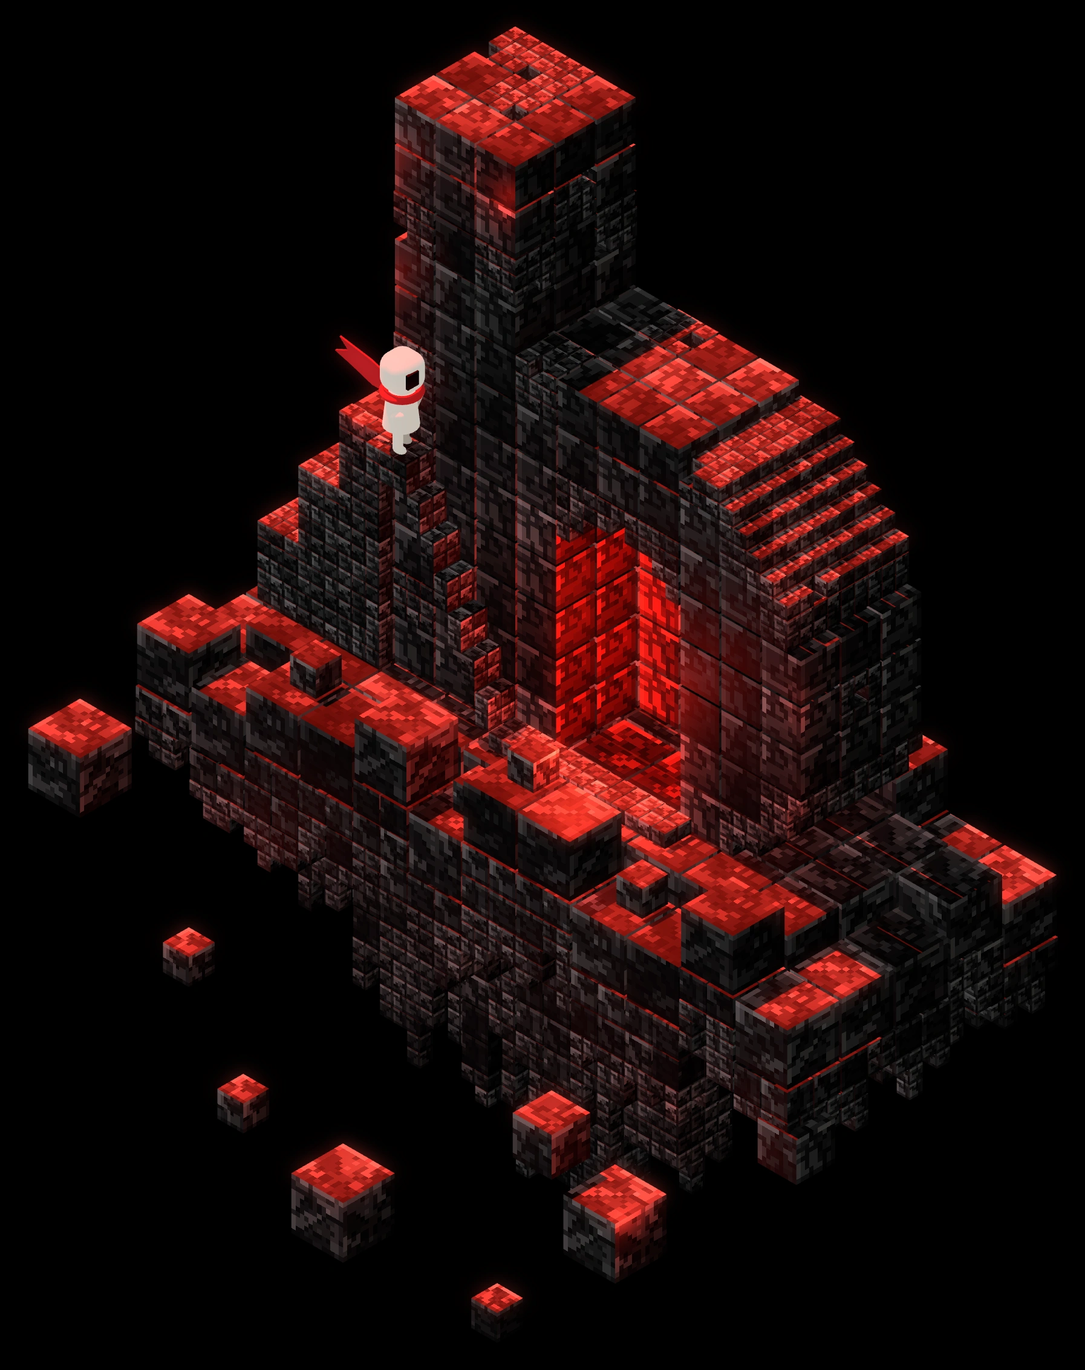
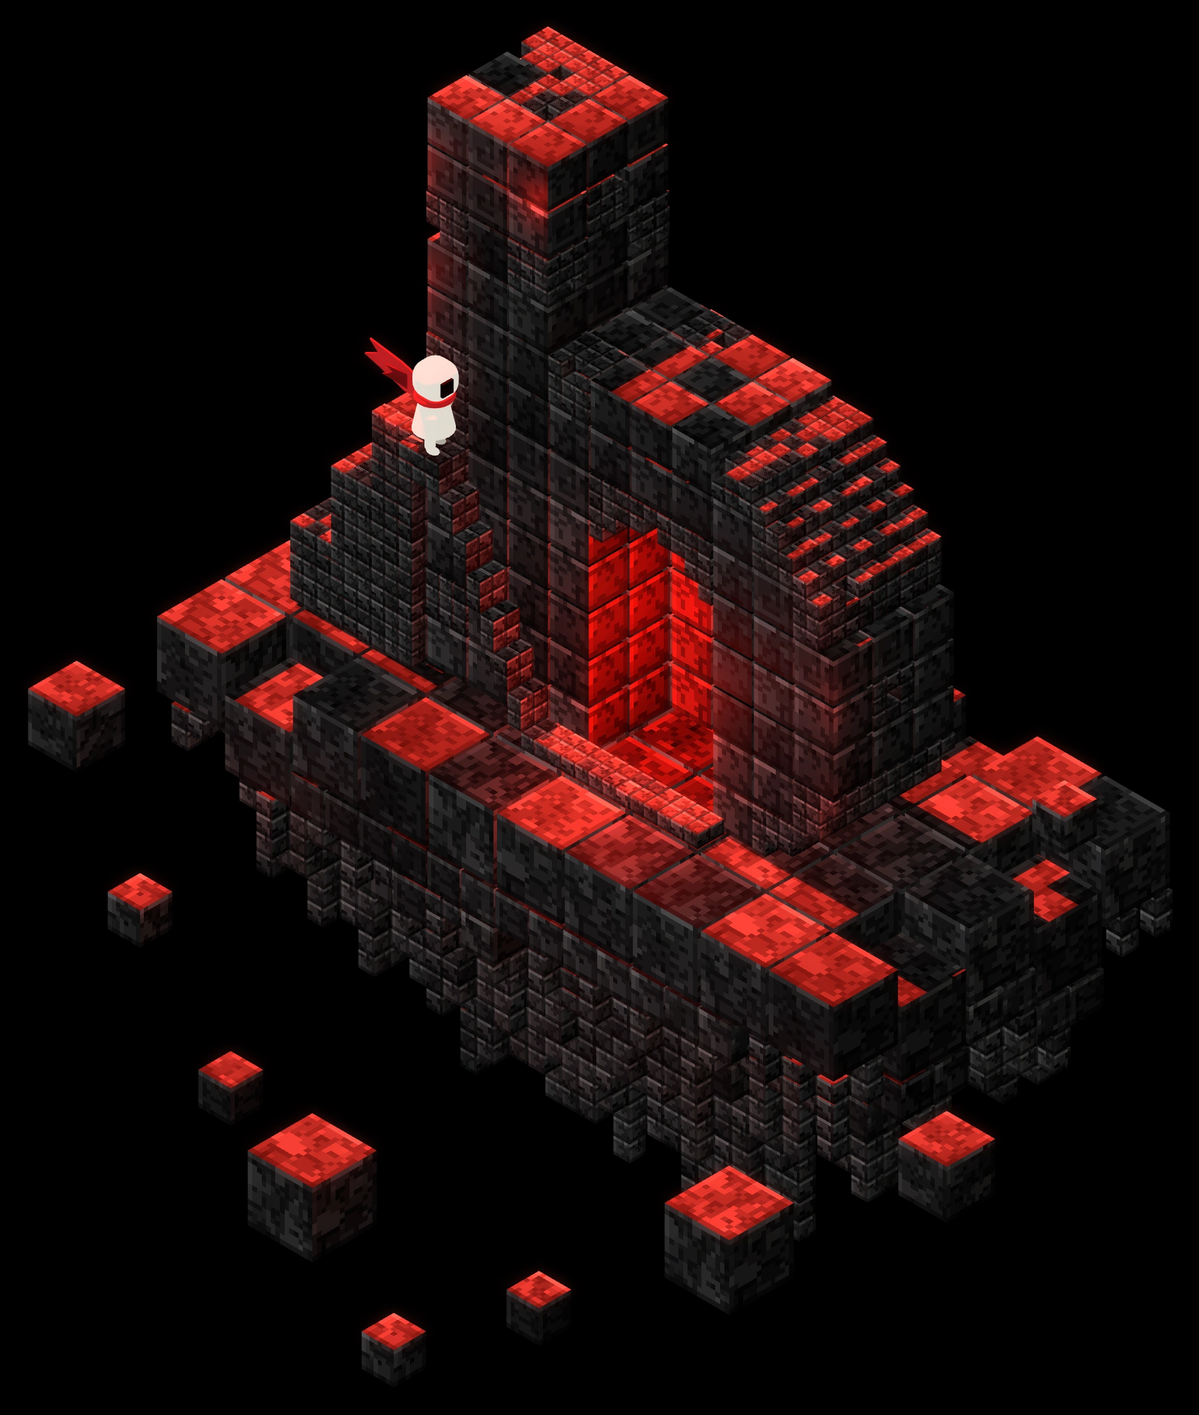
Sculpture: bowl-shaped island, regular rim cubes, near-black cubes via shadow plates, new explorer
- foundation rebuilt: 15-unit top cubes on a regular grid, 7.5 and 3.75-unit tiers
  stepping down a smooth bowl depth profile with serrated teeth; shallower so the b leads
- some cubes are near-black (they sit in the red key's shadow via invisible shadow
  plates) so the tops alternate red / black like the reference
- chibi explorer, calmer red glow and point lights, smoother stone texture

Claude-Session: https://claude.ai/code/session_01QzWKhTYrrY3Jd26DSiS11Q

diff --git a/tools/sculpture3d.js b/tools/sculpture3d.js
@@ -45,12 +45,9 @@ const JF = BODY_Y1 / G;                            // cells in the depth of the 
 const STEM = { x0: 24, x1: 51, h: 108 };
 const BOWL = { x0: 42, x1: 114, h: 72, rTop: 36, rBot: 24 };
 const LANDING_Z = 45;
-const PLAT = { x0: -12, x1: 132, y0: -12, y1: 48 };
-const PLAT_CX = (PLAT.x0 + PLAT.x1) / 2, PLAT_CY = (PLAT.y0 + PLAT.y1) / 2;
-const PLAT_AX = (PLAT.x1 - PLAT.x0) / 2, PLAT_AY = (PLAT.y1 - PLAT.y0) / 2;
-const RIM_M = 0.74;
-const CELL = 12;                                   // foundation top cube
-
+const CELL = 15;                                   // foundation top cube; tiers below are CELL/2 and CELL/4
+const PLAT = { x0: -15, x1: 135, y0: -27, y1: 48 };   // cell boundaries line up with the letter (x) and the stairs' front edge (y = 33)
+const PLAT_CX = 60, PLAT_CY = 10.5, PLAT_AX = 75, PLAT_AY = 37.5;
 const inCircle = (x, z, cx, cz, r) => (x - cx) ** 2 + (z - cz) ** 2 <= r * r;
 function inLetter(X, Z) {
   if (X >= STEM.x0 && X < STEM.x1 && Z >= 0 && Z < STEM.h) return true;
@@ -68,12 +65,6 @@ function inDoorOpening(X, Z) {
   if (Z < DOOR.zRect) return true;
   return inCircle(X, Z, DOOR.cx, DOOR.zRect, DOOR.r);
 }
-function platM(x, y) {
-  const u = Math.abs(x - PLAT_CX) / PLAT_AX, v = Math.abs(y - PLAT_CY) / PLAT_AY;
-  return Math.pow(u ** 7 + v ** 7, 1 / 7);
-}
-const inFootprint = (x, y) => x > -4 && x < 120 && y > -4 && y < 36;   // cells under the letter, stairs and doorstep stay flat
-
 /* ---------- blocks ---------- */
 // block: { X, Y, Z (centre, scene units), s (size), f: [6 face tokens], t (brightness tint) }
 // face order matches BoxGeometry: +x, -x, +y(up), -y, +z(front, scene +Y), -z
@@ -145,7 +136,7 @@ function emitLetter() {
     for (let a = -1; a <= n; a++) for (let b = -1; b <= n; b++) for (let c = -1; c <= n; c++) if (has(i + a, j + b, k + c) && (a < 0 || b < 0 || c < 0 || a >= n || b >= n || c >= n)) occ++;
     const faceCells = 6 * n * n + 12 * n + 8;
     const ao = 1 - Math.max(0, occ / faceCells - 0.5);
-    blocks.push({ X, Y, Z, s, f, t: (0.16 + 1.0 * Math.pow(hash3(i, j, k, 300), 1.2)) * Math.max(0.4, ao) });
+    blocks.push({ X, Y, Z, s, f, t: (hash3(i, j, k, 303) < 0.3 ? 0.04 : 0.45 + 0.8 * hash3(i, j, k, 300)) * Math.max(0.4, ao) });
   };
   const M = 3;                                 // merge aligned 3x3x3 cell groups into 9-unit cubes
   for (const [key] of grid) {
@@ -168,74 +159,83 @@ function emitLetter() {
   }
 }
 
-/* ----- floating foundation: 12-unit rim cubes, then 6- and 3-unit cubes tapering to points ----- */
+/* ----- floating foundation: a bowl of cubes. Top layer 15-unit cubes in a regular grid; below them
+ *       7.5- and 3.75-unit cubes step down along a smooth bowl profile ----- */
+function bowlDepth(x, y) {
+  const u = (x - PLAT_CX) / PLAT_AX, v = (y - PLAT_CY) / PLAT_AY;
+  const r = Math.min(1, Math.pow(u ** 4 + v ** 4, 0.25));          // rounded-rectangle distance from the centre
+  return 17 + 52 * Math.pow(1 - r * r, 0.85);                         // rim ~17 deep, centre ~70: a bowl
+}
 const tierFaces = (h) => {
   const f = baseFaces();
   f[0] = cv(h, 0, 1, 1); f[4] = cv(h, 1, 1, 2); f[2] = cv(h, 2, 1, 3);
   return f;
 };
 const shadeDepth = (Z) => 1 - 0.35 * Math.min(1, Math.max(0, -Z / 70));
+const darkCube = (a, b, c) => hash3(a, b, c, 302) < 0.34;                  // some cubes are near-black stone, so tops alternate red / black
+const tintOf = (a, b, c, Z) => (darkCube(a, b, c) ? 0.03 : 0.45 + 0.8 * hash3(a, b, c, 301)) * shadeDepth(Z);
 function emitPlatform() {
-  for (let ci = Math.floor(PLAT.x0 / CELL); ci < Math.ceil(PLAT.x1 / CELL); ci++) {
-    for (let cj = Math.floor(PLAT.y0 / CELL); cj < Math.ceil(PLAT.y1 / CELL); cj++) {
-      const x = (ci + 0.5) * CELL, y = (cj + 0.5) * CELL;
-      const m = platM(x, y);
-      if (m + (vnoise(x, y, 0, 24, 1) - 0.5) * 0.16 > 1) continue;
-      const r = hash3(ci, cj, 0, 2), core = 1 - m;
-      const onRim = m > RIM_M && !inFootprint(x, y);
+  const ci0 = Math.round(PLAT.x0 / CELL), ci1 = Math.round(PLAT.x1 / CELL) - 1;
+  const cj0 = Math.floor((PLAT.y0 - 3) / CELL) + 1, cj1 = cj0 + Math.round((PLAT.y1 - PLAT.y0) / CELL) - 1;
+  for (let ci = ci0; ci <= ci1; ci++) {
+    for (let cj = cj0; cj <= cj1; cj++) {
+      const x = ci * CELL + CELL / 2, y = 3 + (cj - 1) * CELL + CELL / 2 + CELL * 0;   // front row starts at y = 33
+      const r = hash3(ci, cj, 0, 2);
+      const border = ci === ci0 || ci === ci1 || cj === cj0 || cj === cj1;
+      const flat = y > 0 && y < 33 && x > -10 && x < 125;                    // under the letter, the stairs and the doorstep
       let top = 0;
-      if (onRim) top = r < 0.34 ? -6 : (r > 0.62 && x > 30 ? 6 : 0);                 // rim cubes stand at different heights
-      const H = 24 + 72 * Math.pow(core, 1.3) * (0.7 + 0.5 * r);                      // total hang (inverted pyramid)
-      let rem = H - CELL;
-      const extra = Math.floor(rem * 0.3 / CELL);
-      const n12 = 1 + extra;
-      rem -= extra * CELL;
-      for (let q = 0; q < n12; q++) {
-        if (q > 0 && hash3(ci, cj, q, 235) < 0.1) continue;
+      if (border && !flat) top = r < 0.2 ? -CELL / 2 : r > 0.8 ? CELL / 2 : 0; // a few rim cubes stand higher or lower
+      const jit = 0.86 + 0.28 * hash3(ci, cj, 1, 4);
+      const D = bowlDepth(x, y) * jit;
+      const n1 = 1 + Math.floor(Math.max(0, D - CELL) / 38);
+      // tier 1: 15-cubes
+      for (let q = 0; q < n1; q++) {
         const Z = top - CELL / 2 - q * CELL;
         const f = tierFaces(ci * 31 + cj * 7 + q);
-        if (q === 0 && x > DOOR.x0 && x < DOOR.x1 && y > DOOR.recessY && y < BODY_Y1) f[2] = 'd0';   // door floor glows
-        blocks.push({ X: x, Y: y, Z, s: CELL, f, t: (0.16 + 1.0 * Math.pow(hash3(ci, cj, q, 301), 1.2)) * shadeDepth(Z) });
+        if (q === 0 && x > DOOR.x0 && x < DOOR.x1 && y > 0 && y < 30) f[2] = 'd0';   // door floor glows
+        blocks.push({ X: x, Y: y, Z, s: CELL, f, t: tintOf(ci, cj, q, Z) });
       }
-      const z12 = top - n12 * CELL;
-      if (rem < 3) continue;
+      const z1 = top - n1 * CELL;
+      // tier 2: 7.5-cubes in a 2x2 pattern, depth read from the bowl profile at each sub-column
+      const h2 = CELL / 2, q4 = CELL / 4;
       for (let a = 0; a < 2; a++) for (let b = 0; b < 2; b++) {
-        const X6 = x - 3 + a * 6, Y6 = y - 3 + b * 6, h6 = ci * 977 + cj * 131 + a * 17 + b * 5;
-        const len6 = Math.floor(rem * 0.62 / 6 * (0.5 + 0.9 * hash3(h6, 0, 0, 240)));
-        for (let q = 0; q < len6; q++) {
-          const Z = z12 - 3 - q * 6;
-          blocks.push({ X: X6, Y: Y6, Z, s: 6, f: tierFaces(h6 * 7 + q), t: (0.16 + 1.0 * Math.pow(hash3(h6, q, 0, 302), 1.2)) * shadeDepth(Z) });
+        const xs = x - q4 + a * h2, ys = y - q4 + b * h2, hh = ci * 977 + cj * 131 + a * 17 + b * 5;
+        const D2 = bowlDepth(xs, ys) * (0.72 + 0.5 * hash3(hh, 0, 0, 240)) - n1 * CELL;
+        const len2 = Math.max(0, Math.round(0.62 * D2 / h2));
+        for (let q = 0; q < len2; q++) {
+          const Z = z1 - h2 / 2 - q * h2;
+          blocks.push({ X: xs, Y: ys, Z, s: h2, f: tierFaces(hh * 7 + q), t: tintOf(hh, q, 2, Z) });
         }
-        const z6 = z12 - len6 * 6, rem2 = rem - len6 * 6;
+        // tier 3: 3.75-cubes under each, again 2x2
+        const z2 = z1 - len2 * h2;
         for (let c = 0; c < 2; c++) for (let d = 0; d < 2; d++) {
-          const h3 = h6 * 13 + c * 3 + d, len3 = Math.floor(Math.max(0, rem2) / 3 * (0.35 + 0.9 * hash3(h3, 0, 0, 241)));
+          const xt = xs - q4 / 2 + c * q4, yt = ys - q4 / 2 + d * q4, h3 = hh * 13 + c * 3 + d;
+          const D3 = bowlDepth(xt, yt) * (0.62 + 0.8 * hash3(h3, 0, 0, 241)) - n1 * CELL - len2 * h2;
+          const len3 = Math.min(5, Math.max(0, Math.round(1.0 * D3 / q4)));
           for (let q = 0; q < len3; q++) {
-            const Z = z6 - 1.5 - q * 3;
-            blocks.push({ X: X6 - 1.5 + c * 3, Y: Y6 - 1.5 + d * 3, Z, s: 3, f: tierFaces(h3 * 5 + q), t: (0.16 + 1.0 * Math.pow(hash3(h3, q, 0, 303), 1.2)) * shadeDepth(Z) });
+            const Z = z2 - q4 / 2 - q * q4;
+            blocks.push({ X: xt, Y: yt, Z, s: q4, f: tierFaces(h3 * 5 + q), t: tintOf(h3, q, 3, Z) });
           }
         }
       }
-      // a few lone raised cubes on the island top, clear of the letter
-      if (!inFootprint(x, y) && m < 0.9 && m > 0.45 && hash3(ci, cj, 0, 250) > 0.88) {
-        const sz = hash3(ci, cj, 1, 251) > 0.5 ? 6 : 3;
-        blocks.push({ X: x + 2, Y: y - 2, Z: top + sz / 2, s: sz, f: tierFaces(ci * 3 + cj), t: 0.9 });
-      }
     }
   }
+  // a lone cube sitting on the island, right-hand back corner
+  blocks.push({ X: 128, Y: -10, Z: 3.75, s: 7.5, f: tierFaces(77), t: 0.9 });
 }
 
 /* ----- loose floating cubes ----- */
 const LOOSE = [
   // x, y, z (centre), size
-  [-20, 52, -28, 12], [10, 58, -48, 6], [46, 60, -76, 12], [80, 60, -80, 6],
-  [104, 58, -52, 12], [130, 44, -30, 9], [26, 62, -66, 6], [92, 60, -40, 9]
+  [-30, 50, -26, 11.25], [-6, 60, -46, 7.5], [38, 66, -74, 15], [88, 66, -72, 7.5],
+  [122, 58, -46, 15], [150, 38, -28, 11.25], [64, 74, -88, 7.5], [20, 66, -64, 7.5]
 ];
 function emitLoose() {
   LOOSE.forEach(([X, Y, Z, s], n) => blocks.push({ X, Y, Z, s, f: tierFaces(900 + n), t: 0.85 }));
 }
 
 /* ---------- chunky chipped-stone pixel textures ---------- */
-function texelsFor(s) { return s <= 3 ? 6 : s <= 6 ? 8 : s <= 9 ? 9 : 12; }
+function texelsFor(s) { return s <= 4 ? 6 : s <= 8 ? 8 : s <= 10 ? 9 : s <= 12 ? 12 : 14; }
 const texCache = new Map();
 function makeTexture(kind, variant, n) {
   const key = kind + variant + '_' + n;
@@ -249,7 +249,7 @@ function makeTexture(kind, variant, n) {
   // Voronoi chips: each texel belongs to its nearest site; each site has its own brightness
   const sites = [];
   const count = Math.max(4, Math.round(n * n / 9));
-  for (let i = 0; i < count; i++) sites.push({ x: rnd(i, 0, 1) * n, y: rnd(i, 1, 2) * n, v: 0.38 + 0.8 * Math.pow(rnd(i, 2, 3), 1.3) });
+  for (let i = 0; i < count; i++) sites.push({ x: rnd(i, 0, 1) * n, y: rnd(i, 1, 2) * n, v: 0.55 + 0.5 * Math.pow(rnd(i, 2, 3), 1.2) });
   const owner = new Int16Array(n * n);
   for (let y = 0; y < n; y++) for (let x = 0; x < n; x++) {
     let best = 0, bd = 1e9;
@@ -261,15 +261,15 @@ function makeTexture(kind, variant, n) {
       const o = owner[y * n + x];
       let f = sites[o].v;
       const edge = (x > 0 && owner[y * n + x - 1] !== o) || (y > 0 && owner[(y - 1) * n + x] !== o);
-      if (edge && rnd(x, y, 4) < 0.7) f *= 0.45;                           // cracks between chips
-      if (rnd(x, y, 5) < 0.03) f *= 0.5;                                   // pits
-      if (rnd(x, y, 6) < 0.04) f *= 1.35;                                  // chalky flecks
+      if (edge && rnd(x, y, 4) < 0.55) f *= 0.62;                           // cracks between chips
+      if (rnd(x, y, 5) < 0.02) f *= 0.6;                                   // pits
+      if (rnd(x, y, 6) < 0.025) f *= 1.25;                                  // chalky flecks
       // bevel: lit top-left edges, shaded bottom-right
-      if (y === 0) f *= 1.9;
-      if (x === 0) f *= 1.35;
-      if (y === n - 1) f *= 0.55;
-      if (x === n - 1) f *= 0.65;
-      const v = Math.max(0, Math.min(255, 150 * f));
+      if (y === 0) f *= 1.7;
+      if (x === 0) f *= 1.25;
+      if (y === n - 1) f *= 0.6;
+      if (x === n - 1) f *= 0.7;
+      const v = Math.max(0, Math.min(255, 138 * f));
       const p = (y * n + x) * 4;
       img.data[p] = v; img.data[p + 1] = v * 0.985; img.data[p + 2] = v * 0.96; img.data[p + 3] = 255;
     }
@@ -315,6 +315,7 @@ for (const b of blocks) {
   groups.get(key).push(b);
 }
 const geoCache = new Map();
+const darkCubes = [];
 const col = new THREE.Color();
 const dummy = new THREE.Object3D();
 for (const [, list] of groups) {
@@ -326,39 +327,64 @@ for (const [, list] of groups) {
     dummy.position.set(b.X, b.Z, b.Y);
     dummy.updateMatrix();
     mesh.setMatrixAt(i, dummy.matrix);
-    col.setScalar(Math.min(1.3, b.t));
+    if (b.t < 0.1) {                                                        // near-black stone: sits in the red key's shadow (below), so its top shows the grey fill
+      col.setScalar(1.0);
+      darkCubes.push(b);
+    } else col.setScalar(Math.min(1.3, b.t));
     mesh.setColorAt(i, col);
   });
   mesh.castShadow = true; mesh.receiveShadow = true;
   scene.add(mesh);
 }
 
+/* invisible plates just above the near-black cubes: they cast a shadow from the key light only */
+{
+  const plate = new THREE.InstancedMesh(new THREE.BoxGeometry(1, 1, 1), new THREE.MeshBasicMaterial({ colorWrite: false, depthWrite: false }), darkCubes.length);
+  darkCubes.forEach((b, i) => {
+    dummy.position.set(b.X, b.Z + b.s / 2 + 0.7, b.Y);
+    dummy.scale.set(b.s * 1.02, 0.4, b.s * 1.02);
+    dummy.updateMatrix();
+    plate.setMatrixAt(i, dummy.matrix);
+  });
+  dummy.scale.set(1, 1, 1);
+  plate.castShadow = true;
+  scene.add(plate);
+}
+
 /* ---------- explorer (self-lit ivory so the red light does not tint him) ---------- */
 (function explorer() {
   const g = new THREE.Group();
-  const ivory = new THREE.MeshStandardMaterial({ color: 0x8a867c, roughness: 0.6, emissive: 0xf0ebe0, emissiveIntensity: 0.62 });
-  const ivoryShade = new THREE.MeshStandardMaterial({ color: 0x6c685f, roughness: 0.7, emissive: 0xd0c9ba, emissiveIntensity: 0.5 });
-  const red = new THREE.MeshStandardMaterial({ color: 0xe5262b, roughness: 0.7, emissive: 0xc01a1e, emissiveIntensity: 0.55, side: THREE.DoubleSide });
+  // bright ivory, self-lit so the red light does not tint him; a darker twin gives the form some shading
+  const ivory = new THREE.MeshStandardMaterial({ color: 0xa09b90, roughness: 0.55, emissive: 0xf6f1e6, emissiveIntensity: 0.78 });
+  const ivoryShade = new THREE.MeshStandardMaterial({ color: 0x77736a, roughness: 0.7, emissive: 0xd8d1c2, emissiveIntensity: 0.6 });
+  const red = new THREE.MeshStandardMaterial({ color: 0xe5262b, roughness: 0.7, emissive: 0xd01c20, emissiveIntensity: 0.6, side: THREE.DoubleSide });
+  const redDark = new THREE.MeshStandardMaterial({ color: 0x8a1014, roughness: 0.8, emissive: 0x6a0a0e, emissiveIntensity: 0.6, side: THREE.DoubleSide });
   const dark = new THREE.MeshStandardMaterial({ color: 0x0b0b0a, roughness: 0.4 });
   const add = (geo, mat, x, y, z, rx = 0, ry = 0, rz = 0) => {
     const m = new THREE.Mesh(geo, mat); m.position.set(x, y, z); m.rotation.set(rx, ry, rz);
     m.castShadow = true; m.receiveShadow = true; g.add(m); return m;
   };
-  add(new THREE.CapsuleGeometry(0.85, 3.6, 4, 10), ivoryShade, -0.3, 2.6, -1.3);
-  add(new THREE.CapsuleGeometry(0.85, 3.6, 4, 10), ivory, 0.9, 2.6, 1.3);
-  add(new THREE.SphereGeometry(1.0, 12, 8), ivoryShade, -0.1, 0.55, -1.3).scale.set(1.3, 0.6, 0.9);
-  add(new THREE.SphereGeometry(1.0, 12, 8), ivory, 1.3, 0.55, 1.3).scale.set(1.3, 0.6, 0.9);
-  add(new THREE.CylinderGeometry(2.3, 3.0, 6.6, 18), ivory, 0.3, 7.6, 0);
-  add(new THREE.CylinderGeometry(2.5, 2.5, 0.5, 16), red, 0.3, 4.6, 0).scale.set(0.9, 1, 0.9);
-  add(new THREE.CapsuleGeometry(0.7, 3.0, 4, 8), ivory, 2.3, 8.0, 2.6, 0.35, 0, -0.9);
-  add(new THREE.CapsuleGeometry(0.65, 2.6, 4, 8), ivoryShade, 1.3, 8.2, -2.6, -0.2, 0, -0.3);
-  add(new RoundedBoxGeometry(6.4, 6.8, 6.4, 4, 2.4), ivory, 0.6, 14.6, 0);
-  add(new THREE.BoxGeometry(0.5, 2.6, 2.4), dark, 3.8, 14.9, 1.0);
-  add(new THREE.TorusGeometry(2.9, 0.75, 8, 24), red, 0.5, 10.9, 0, Math.PI / 2, 0, 0).scale.set(1, 1, 0.9);
+  // short legs and small feet
+  add(new THREE.CapsuleGeometry(0.9, 2.0, 4, 10), ivoryShade, -0.4, 2.2, -1.4);
+  add(new THREE.CapsuleGeometry(0.9, 2.0, 4, 10), ivory, 0.9, 2.2, 1.4);
+  add(new THREE.SphereGeometry(1.0, 12, 8), ivoryShade, 0.1, 0.5, -1.4).scale.set(1.3, 0.55, 0.9);
+  add(new THREE.SphereGeometry(1.0, 12, 8), ivory, 1.5, 0.5, 1.4).scale.set(1.3, 0.55, 0.9);
+  // bell-shaped tunic with a red lining at the hem
+  add(new THREE.CylinderGeometry(2.1, 3.5, 6.8, 20), ivory, 0.3, 7.0, 0);
+  add(new THREE.CylinderGeometry(3.4, 3.4, 0.45, 20), red, 0.3, 3.9, 0).scale.set(0.96, 1, 0.96);
+  // arms: one reaching toward the stairs, one tucked back
+  add(new THREE.CapsuleGeometry(0.7, 2.8, 4, 8), ivory, 2.4, 7.6, 2.5, 0.4, 0, -0.95);
+  add(new THREE.CapsuleGeometry(0.65, 2.4, 4, 8), ivoryShade, 1.2, 7.9, -2.5, -0.2, 0, -0.3);
+  // large rounded head with a dark visor on the side facing the stairs
+  add(new RoundedBoxGeometry(6.8, 6.4, 6.6, 4, 2.7), ivory, 0.7, 13.2, 0);
+  add(new THREE.BoxGeometry(0.5, 2.5, 2.4), dark, 4.15, 13.5, 0.9);
+  // scarf: collar, a short knot, and a notched tail trailing left
+  add(new THREE.TorusGeometry(2.7, 0.7, 8, 24), red, 0.5, 10.1, 0, Math.PI / 2, 0, 0).scale.set(1, 1, 0.92);
   const tail = new THREE.Shape();
-  tail.moveTo(0, 0.4); tail.lineTo(-4.5, 2.6); tail.lineTo(-10.5, 4.6); tail.lineTo(-8.8, 2.6); tail.lineTo(-11.4, 1.6);
-  tail.lineTo(-8.4, 0.2); tail.lineTo(-4.2, -2.0); tail.lineTo(0, -2.6); tail.closePath();
-  add(new THREE.ExtrudeGeometry(tail, { depth: 0.4, bevelEnabled: false }), red, -1.2, 11.4, -0.2, 0, 0.15, 0);
+  tail.moveTo(0, 0.5); tail.lineTo(-4.8, 2.9); tail.lineTo(-11.0, 4.9); tail.lineTo(-9.2, 2.8); tail.lineTo(-12.0, 1.7);
+  tail.lineTo(-8.8, 0.2); tail.lineTo(-4.4, -2.2); tail.lineTo(0, -2.8); tail.closePath();
+  add(new THREE.ExtrudeGeometry(tail, { depth: 0.45, bevelEnabled: false }), red, -1.2, 10.5, -0.2, 0, 0.15, 0);
+  add(new THREE.ExtrudeGeometry(tail, { depth: 0.3, bevelEnabled: false }), redDark, -1.0, 9.9, -0.9, 0, 0.35, 0.05).scale.set(0.7, 0.6, 1);
   g.position.set(28.5, LANDING_Z, 30);
   scene.add(g);
 })();
@@ -366,7 +392,7 @@ for (const [, list] of groups) {
 /* ---------- lights: red is the main light; the white fill is almost nothing ---------- */
 scene.add(new THREE.AmbientLight(0xffffff, 0.1));
 scene.add(new THREE.HemisphereLight(0xb8b4c0, 0x120c0c, 0.1));
-const fill = new THREE.DirectionalLight(0xc8ccd8, 0.38);              // keeps the left faces a touch lighter than the right
+const fill = new THREE.DirectionalLight(0xc8ccd8, 0.32);              // keeps the left faces a touch lighter than the right
 fill.position.set(-80, 70, 160);
 scene.add(fill);
 
@@ -385,7 +411,7 @@ scene.add(rim);
 
 const doorInner = new THREE.PointLight(0xff2a1e, 900, 70, 2);         // glow inside the recess
 doorInner.position.set(DOOR.cx, 22, 18);
-const doorMouth = new THREE.PointLight(0xff2418, 1700, 65, 2);        // spill onto floor, steps and wall
+const doorMouth = new THREE.PointLight(0xff2418, 1200, 60, 2);        // spill onto floor, steps and wall
 doorMouth.position.set(DOOR.cx, 14, 36);
 scene.add(doorInner, doorMouth);
 
@@ -398,9 +424,9 @@ const edgeLight = (X, Y, Z, intensity, dist) => {
 for (const z of [92, 70, 48]) edgeLight(19, 31, z, 150, 26);          // left edge of the stem
 for (const z of [60, 36, 14]) edgeLight(117, 34, z, 130, 26);         // right end of the bowl
 edgeLight(48, 30, 100, 90, 22);
-edgeLight(56, 76, -52, 330, 80);                                      // low red glow under the island: the stalactite tips catch it
-edgeLight(112, 62, -44, 240, 70);
-edgeLight(6, 62, -38, 200, 60);                                       // top front corner of the stem
+edgeLight(58, 74, -52, 140, 70);                                      // low red glow under the island: the stalactite tips catch it
+edgeLight(112, 62, -36, 90, 55);
+edgeLight(6, 62, -30, 80, 50);                                       // top front corner of the stem
 
 /* ---------- camera + render ---------- */
 const bbox = new THREE.Box3();
@@ -450,10 +476,10 @@ octx.drawImage(renderer.domElement, 0, 0);
   const t2 = document.createElement('canvas');
   t2.width = W; t2.height = H;
   const g2 = t2.getContext('2d');
-  g2.filter = 'blur(' + Math.round(UNIT_PX * 1.3) + 'px)';
+  g2.filter = 'blur(' + Math.round(UNIT_PX * 0.9) + 'px)';
   g2.drawImage(t, 0, 0);
   octx.globalCompositeOperation = 'screen';
-  octx.globalAlpha = 0.5;
+  octx.globalAlpha = 0.3;
   octx.drawImage(t2, 0, 0);
 }
 

diff --git a/index.html b/index.html
@@ -46,9 +46,9 @@
       <figure class="hero__art">
         <img class="hero__sculpture"
           src="assets/sculpture.webp"
-          srcset="assets/sculpture-1000.webp 1000w, assets/sculpture.webp 1794w"
+          srcset="assets/sculpture-1000.webp 1000w, assets/sculpture.webp 1983w"
           sizes="(max-width: 900px) 100vw, 46vw"
-          width="1794" height="2266"
+          width="1983" height="2340"
           alt="A lowercase b built from small charcoal blocks, floating on a rocky island. A stairway climbs to a tiny ivory explorer in a red scarf, and a red doorway glows in the bowl."
           fetchpriority="high" decoding="async">
       </figure>

diff --git a/README.md b/README.md
@@ -16,6 +16,6 @@ Open `index.html` in a browser (no build step needed).
 
 - `css/styles.css` holds the layout, tokens (`:root`) and responsive rules. The primary action uses the documented red `#D51D22`.
 - `assets/sculpture.webp` (and a 1000px variant) is the voxel b sculpture, with its explorer, red doorway lighting and floating foundation.
-- The sculpture is generated, not hand-drawn: `tools/sculpture3d.js` builds it from large charcoal stone cubes in three.js (9-unit cubes for the letter, 3-unit blocks at curves, steps and the arch, 12 / 6 / 3-unit cubes for the foundation) with chunky chipped-stone pixel textures. No block is painted red: the red comes from a strong red key light that makes tops and edges glow and casts shadows, red lights in the doorway, and a near-black fill. A red-only glow is added in a 2D pass. Re-render it with `cd tools && npm install && cd .. && node tools/build-sculpture.js` (set `CHROMIUM_PATH` to use an installed Chromium; WebGL runs on the software renderer). If the output size changes, update the `width`/`height` on the `<img>` in `index.html`.
+- The sculpture is generated, not hand-drawn: `tools/sculpture3d.js` builds it from large charcoal stone cubes in three.js (9-unit cubes for the letter, 3-unit blocks at curves, steps and the arch, 15 / 7.5 / 3.75-unit cubes for the bowl-shaped foundation) with chunky chipped-stone pixel textures. No block is painted red: the red comes from a strong red key light that makes tops and edges glow and casts shadows, red lights in the doorway, and a near-black fill. A red-only glow is added in a 2D pass. Re-render it with `cd tools && npm install && cd .. && node tools/build-sculpture.js` (set `CHROMIUM_PATH` to use an installed Chromium; WebGL runs on the software renderer). If the output size changes, update the `width`/`height` on the `<img>` in `index.html`.
 - The artwork is rendered on pure black and shown with `mix-blend-mode: screen`, so it blends into the page background.
 - Links to `games.html`, `studio.html` and `contact.html` are placeholders until those pages exist.

diff --git a/design/ITERATION.md b/design/ITERATION.md
@@ -35,5 +35,6 @@ Use [DESIGN.md](../DESIGN.md) as the current source of design decisions. Add rev
 | 2026-10-15 | Build the Home page: generated voxel b sculpture (finer stone, red rim light, glowing doorway, tapered floating foundation), primary button in `#D51D22`, clean wordmark, no active nav item on Home. | Implemented, awaiting user review |
 | 2026-10-15 | Rebuild the sculpture in three.js with real cubes (big foundation blocks, pixel-art textures, shadow-casting lights, doorway light) closer to the reference. | Superseded by the next row |
 | 2026-10-15 | Sculpture blocks are all charcoal stone; red comes from light, not red blocks. Larger cubes (9-unit letter, 12-unit foundation) with chunky chipped-stone textures. | Implemented, awaiting user review |
+| 2026-10-15 | Foundation remade as a bowl: regular grid of 15-unit rim cubes (some near-black so tops alternate red / black), 7.5 and 3.75-unit tiers stepping down a smooth bowl profile; chibi explorer; calmer glow. | Implemented, awaiting user review |
 
 For each later review, record the exact file, decision, and approval status. Do not mark proposals approved without a user decision.
